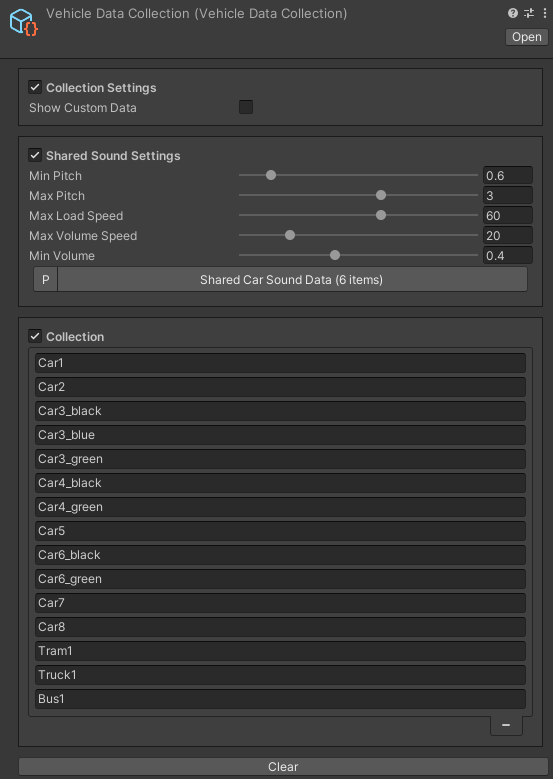
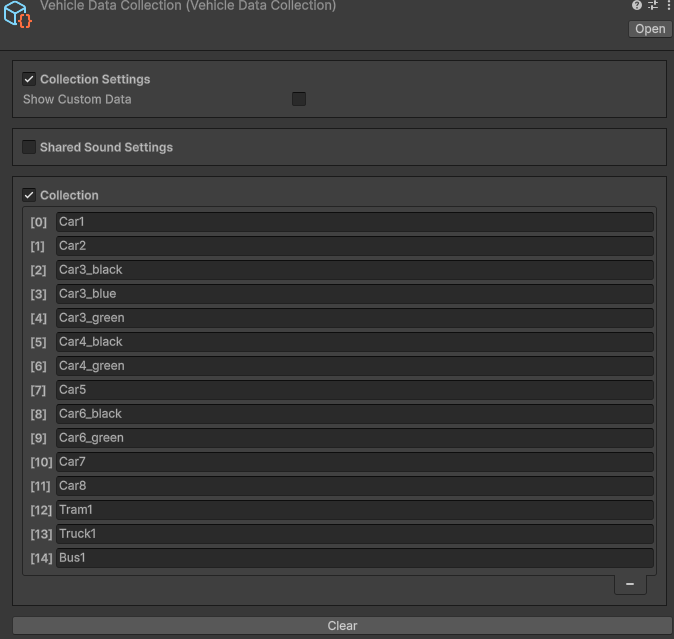
up

diff --git a/docs/source/vehicleCollection.rst b/docs/source/vehicleCollection.rst
@@ -6,7 +6,11 @@ Vehicle Collection
 The `Vehicle collection` contains data on all vehicles in the city and their :ref:`shared settings <sharedSoundSettings>`.
 
 	.. image:: /images/entities/trafficCar/vehicleCollection/VehicleCollection.png
-	
+		:scale: 50%
+		
+	.. note::
+		`VehicleDataHolder` contains a reference to the vehicle collection.
+
 How To
 ----------------
 	
@@ -65,7 +69,7 @@ Unique ID
 Car Model
 ----------------
 
-| **Car model** - the name of the vehicle that is assigned to the :ref:`Vehicle data <vehicleCollection>` and associated with an immutable :ref:`ID <trafficId>`. 
+| **Car model** - the name of the vehicle that is assigned to the :ref:`Vehicle data <vehicleCollection>` and associated with an immutable :ref:`ID <trafficId>` (the :ref:`ID <trafficId>` can be found in the :ref:`Collection <vehicleCollection>` before the name of the car). 
 
 	.. note::
 		You can change the `CarModel` name at any time in the :ref:`Collection <vehicleCollection>` tab.

diff --git a/docs/source/changelog.rst b/docs/source/changelog.rst
@@ -8,7 +8,7 @@ Change Log
 
 * Added support NetCode for Entities. [In progress]
 
-[1.6.4] - 29-12-2025
+[1.6.4] - 30-12-2025
 ------------
 
 Added
